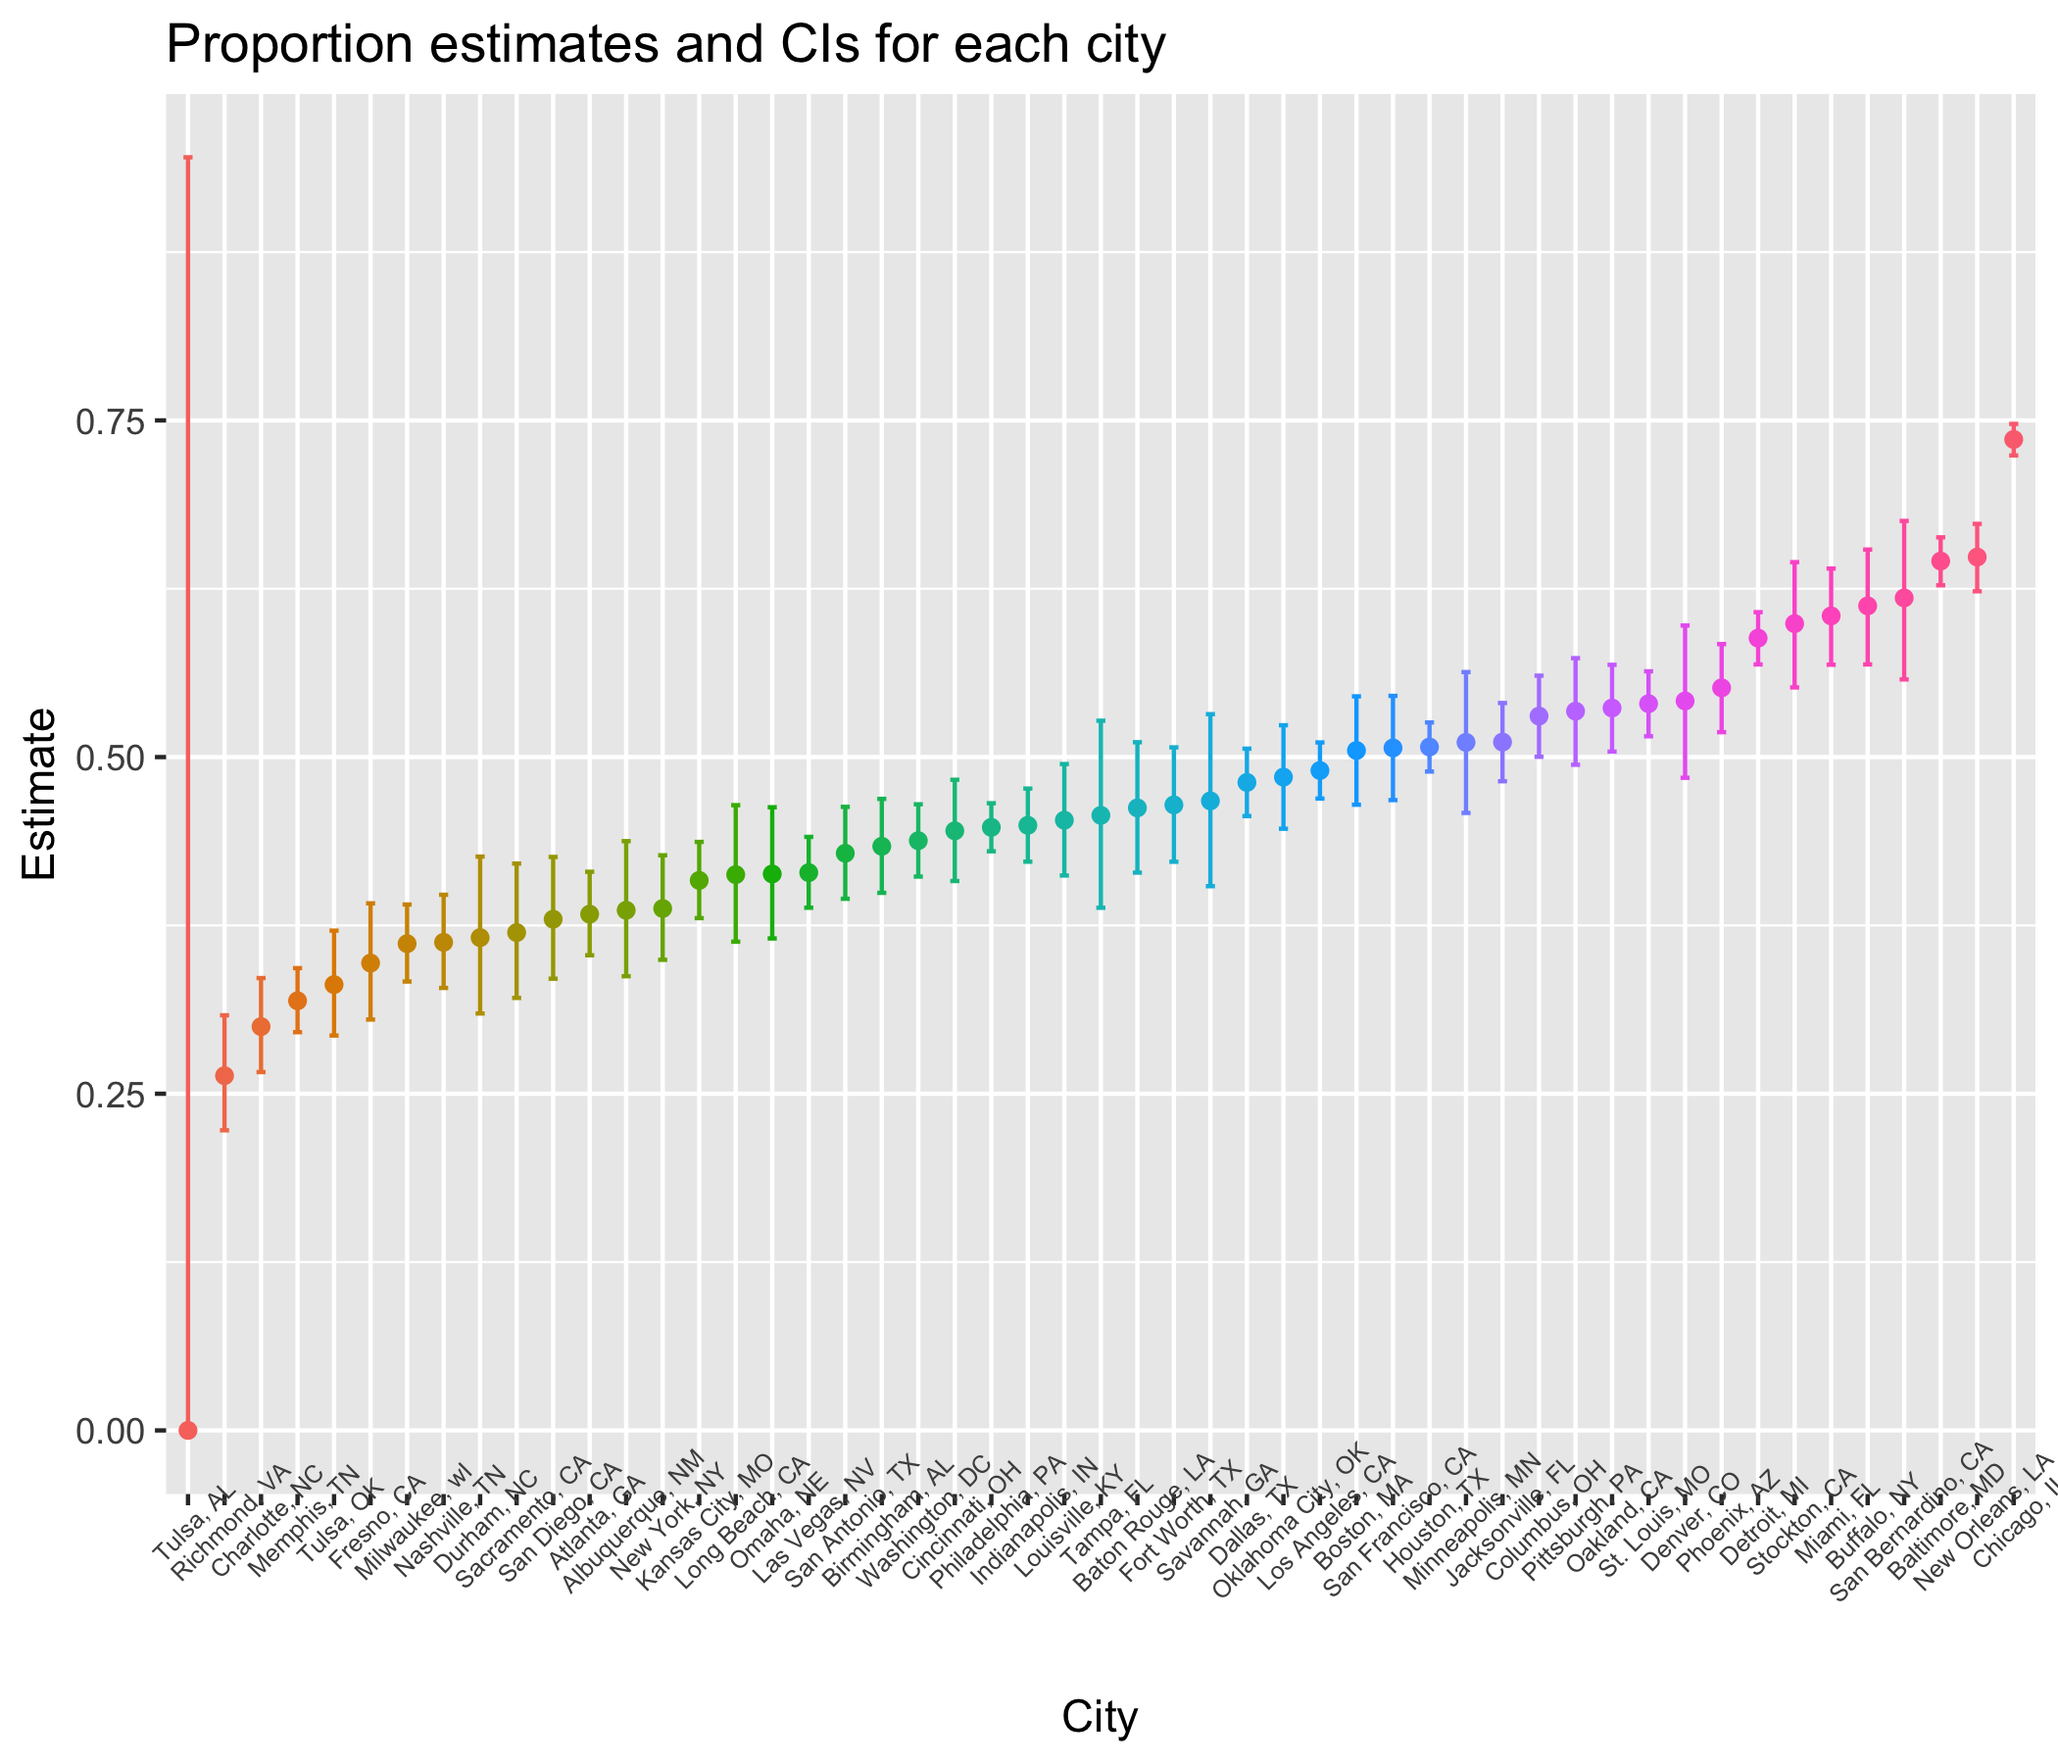
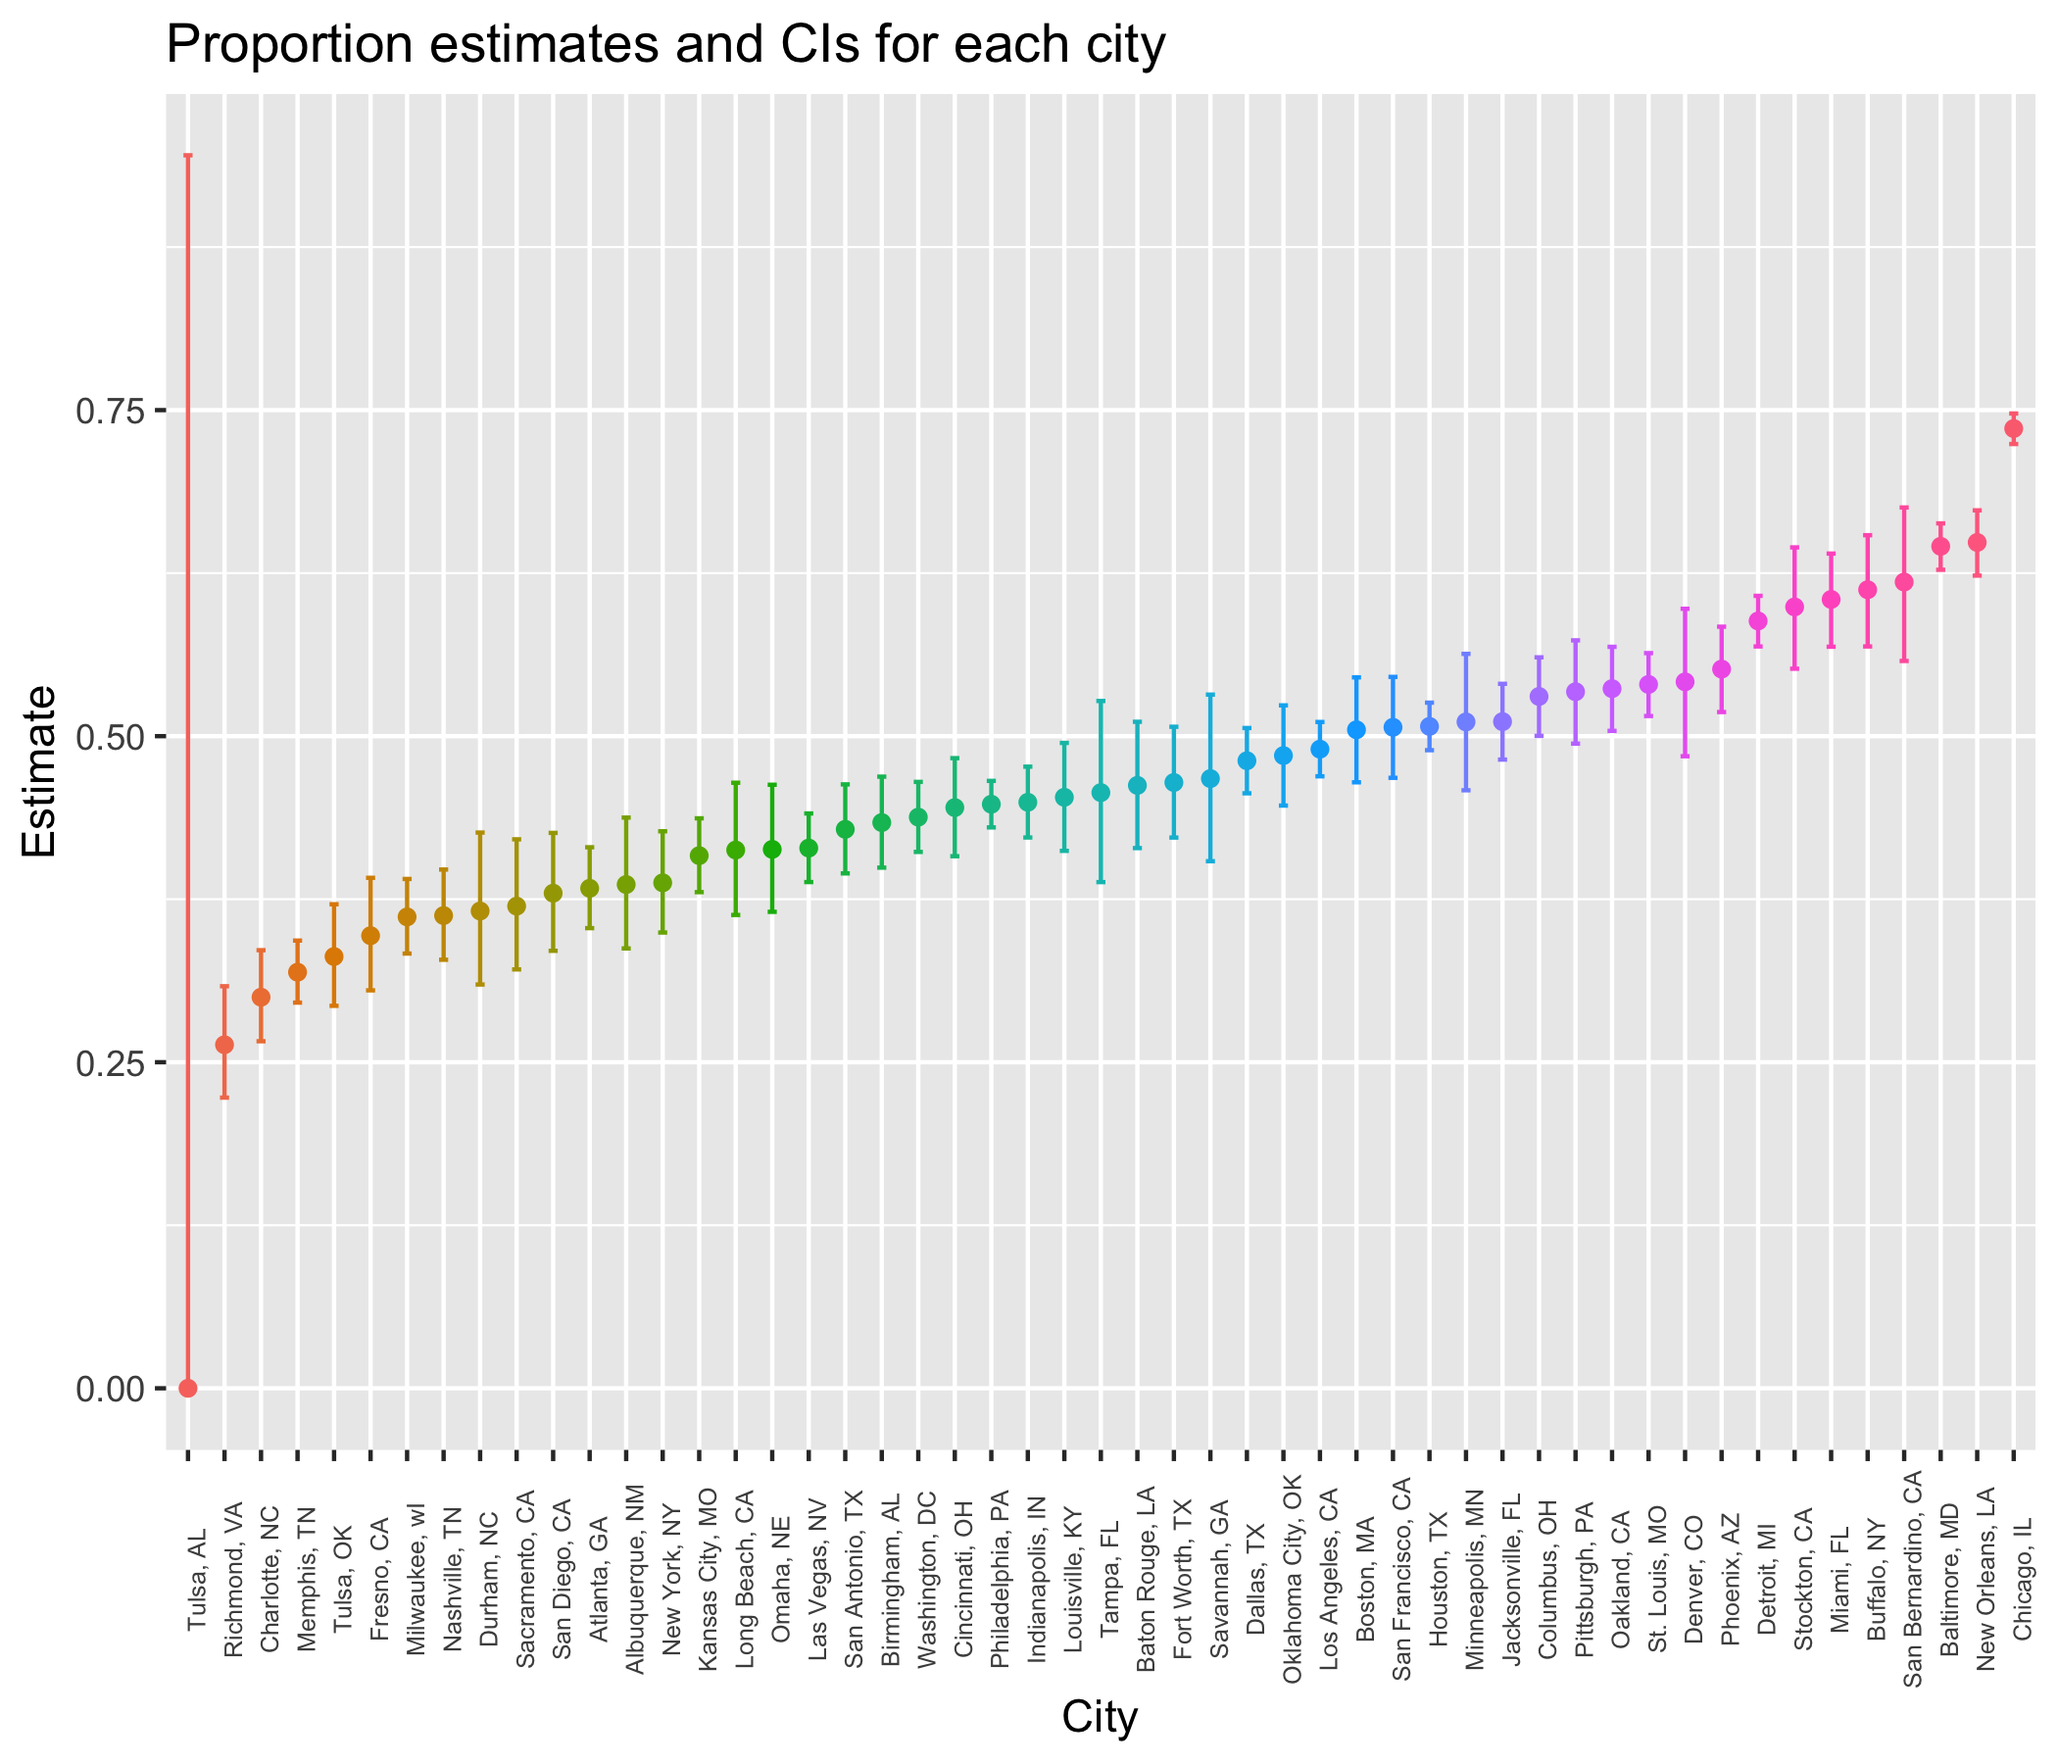
Final round of commit.

diff --git a/p8105_hw5_mm5354.md b/p8105_hw5_mm5354.md
@@ -38,14 +38,14 @@ Tidy the result; manipulate file names to include control arm and subject ID, ma
 ``` r
 output_csvs = cbind(output_csvs, list_of_csvs) %>%
   select(-path) %>% 
-  unite(Subject_ID, control_arm, Subject_ID, sep = ". ", remove = FALSE)
+  unite(Subject_ID, control_arm, Subject_ID, sep = ". ", remove = FALSE) %>% 
+  gather(key = week_num, value = outcome, week_1:week_8) 
 ```
 
 Make a spaghetti plot showing observations on each subject over time, and comment on differences between groups.
 
 ``` r
 output_csvs %>%
-  gather(key = week_num, value = outcome, week_1:week_8) %>% 
   ggplot(aes(x = week_num, y = outcome, color = Subject_ID, group = Subject_ID)) + 
     geom_point() + 
     geom_line() + 
@@ -187,7 +187,7 @@ proportion_test_output %>%
       x = "City",
       y = "Estimate"
       ) +
-  theme(axis.text.x = element_text(angle = 45, size = 6)) +
+  theme(axis.text.x = element_text(angle = 90, size = 6)) +
   theme(legend.position = "none")
 ```
 
